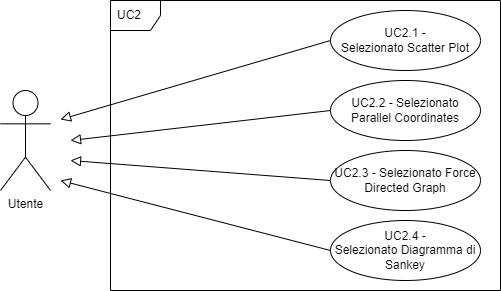
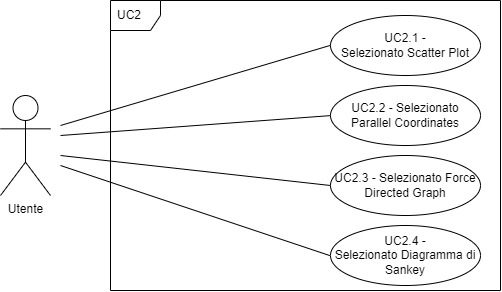
aggiunti sottocasi e modifica UC Diagram

Changed region(s): [[0.0, 0.0, 1.0, 1.0], [0.0, 0.5876, 0.0898, 0.7423]]

diff --git a/src/documenti/esterni/AdR/contenuti/casi_uso.tex b/src/documenti/esterni/AdR/contenuti/casi_uso.tex
@@ -23,7 +23,36 @@
          \item \textit{Diagramma di Sankey}.
      \end{enumerate}
  \end{itemize}
- 
+
+ \subsection{UC2.1 - Selezionato Scatter Plot}
+ \begin{itemize}
+     \item \textbf{Attore Primario:} Utenete.
+     \item \textbf{Precondizioni:} Il sistema è stato inizializzato [UC1].
+     \item \textbf{Postcondizioni:} Viene mostrata la scelta delle dimensioni del grafico [UC3].
+     \item \textbf{Scenario principale:} L'utente seleziona la visualizzazione \textit{Scatter Plot} e il sistema ritorna la selezione della dimensione.
+ \end{itemize}
+\subsection{UC2.2 - Selezionato Parallel Coordinates}
+\begin{itemize}
+   \item \textbf{Attore Primario:} Utenete.
+   \item \textbf{Precondizioni:} Il sistema è stato inizializzato [UC1].
+   \item \textbf{Postcondizioni:} Viene mostrata la scelta delle dimensioni del grafico [UC3].
+   \item \textbf{Scenario principale:} L'utente seleziona la visualizzazione \textit{Parallel Coordinates} e il sistema ritorna la selezione della dimensione.
+\end{itemize}
+\subsection{UC2.3 - Force Directed Graph}
+\begin{itemize}
+   \item \textbf{Attore Primario:} Utenete.
+   \item \textbf{Precondizioni:} Il sistema è stato inizializzato [UC1].
+   \item \textbf{Postcondizioni:} Viene mostrata la scelta delle dimensioni del grafico [UC3].
+   \item \textbf{Scenario principale:} L'utente seleziona la visualizzazione \textit{Force Directed Graph} e il sistema ritorna la selezione della dimensione.
+\end{itemize}
+\subsection{UC2.4 - Diagramma di Sankey}
+\begin{itemize}
+   \item \textbf{Attore Primario:} Utenete.
+   \item \textbf{Precondizioni:} Il sistema è stato inizializzato [UC1].
+   \item \textbf{Postcondizioni:} Viene mostrata la scelta delle dimensioni del grafico [UC3].
+   \item \textbf{Scenario principale:} L'utente seleziona la visualizzazione \textit{Diagramma di Sankey} e il sistema ritorna la selezione della dimensione.
+\end{itemize}
+
 \section{UC3}
 
 \section{UC4}
